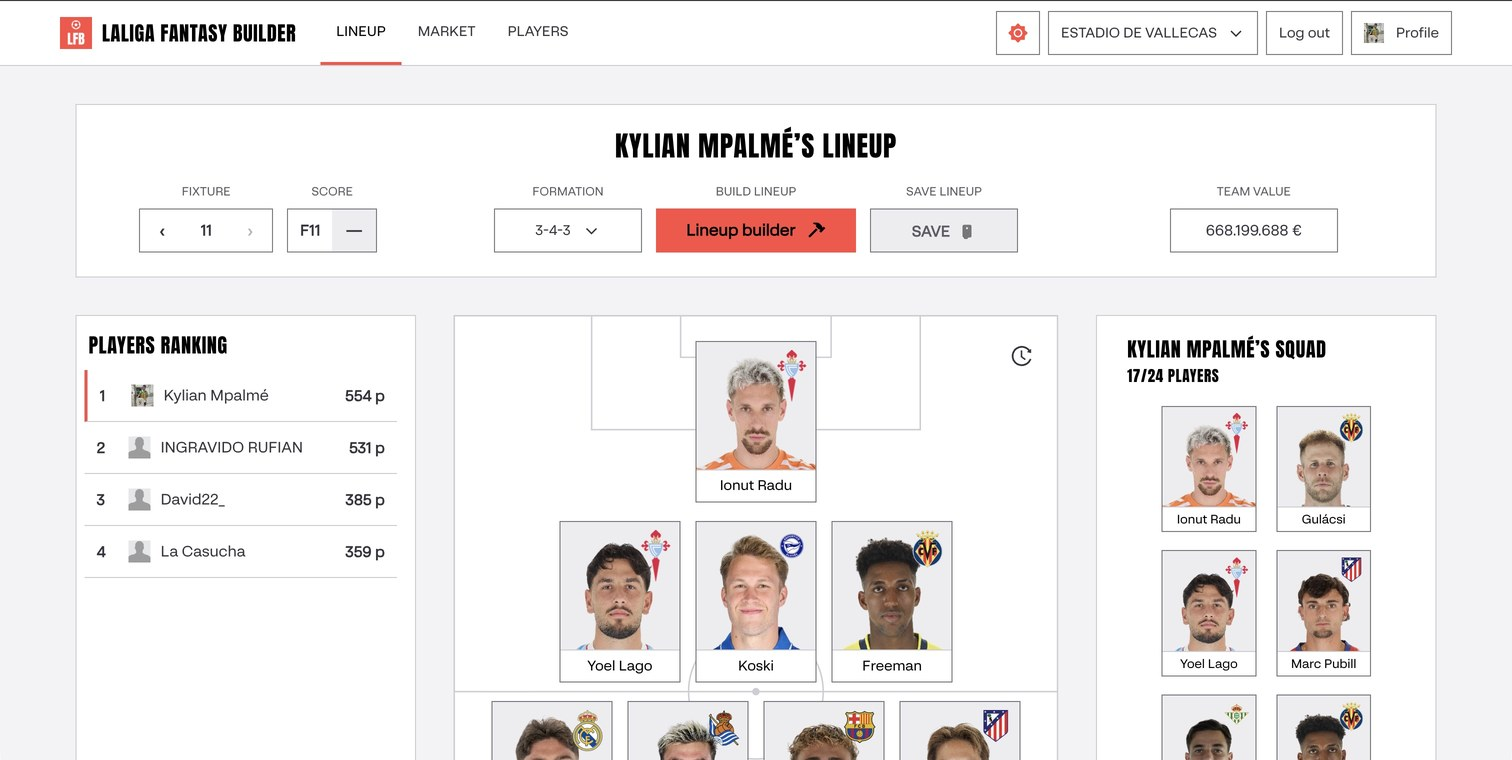
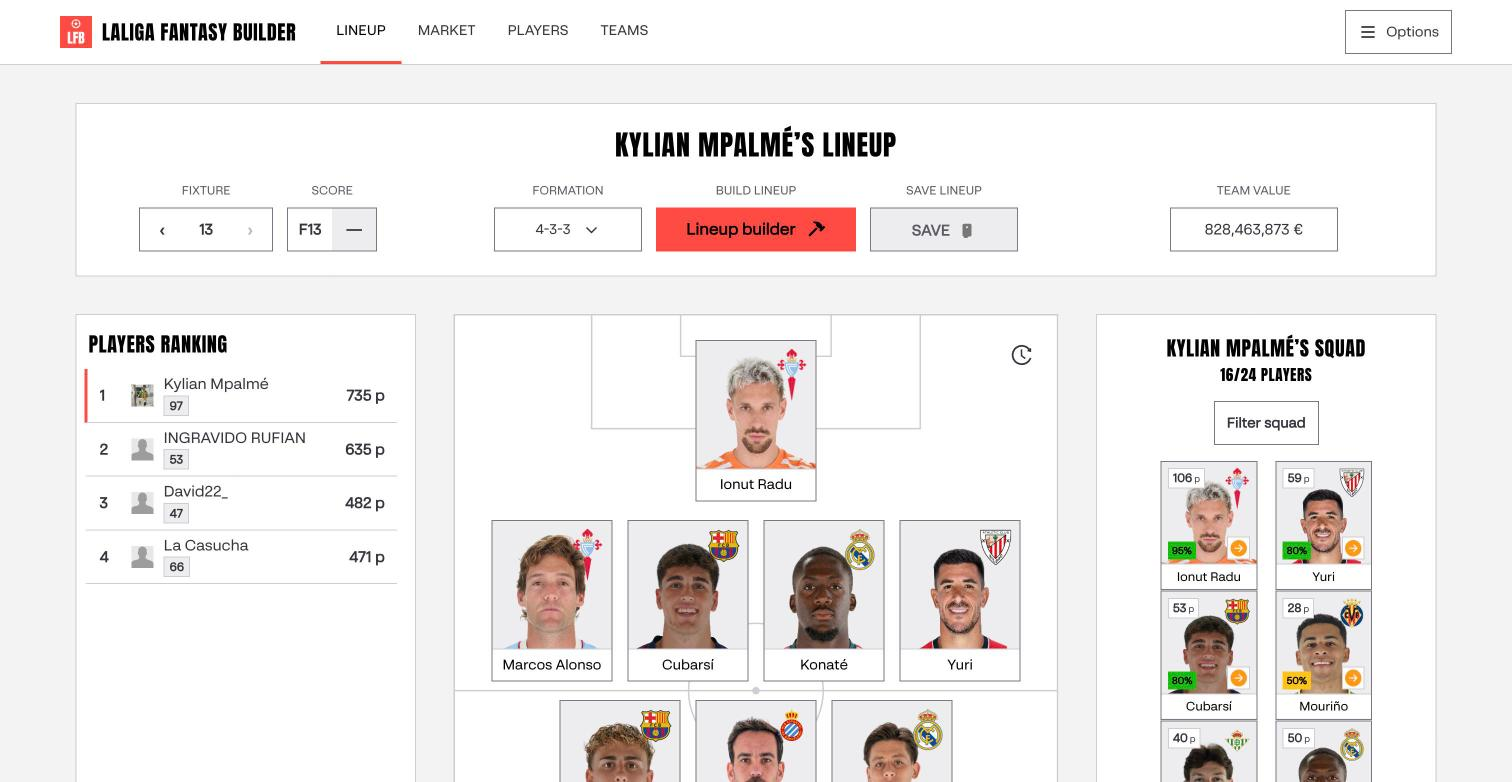
docs: describe the Teams tab and refresh the screenshot gallery
Add the Teams dossier to the README, CHANGELOG, architecture and docs index,
drop a duplicated loading paragraph from the frontend guide, and replace the
ten product captures with sixteen covering Lineup, Market, Players, Teams,
player details and the lineup builder in both themes.

diff --git a/docs/frontend.md b/docs/frontend.md
@@ -2,7 +2,8 @@
 
 React app in `frontend/` (Vite, Bun). It is the browser entry point for
 LaLiga Fantasy Builder: sign-in, league selection, lineup editing, player
-catalog and profiles, and an interactive market board. It never calls LaLiga
+catalog and profiles, an interactive market board, and a Teams tab with one dossier
+per real LaLiga club. It never calls LaLiga
 directly and keeps the internal JWT in memory only.
 
 - System map: [Architecture](architecture.md)
@@ -145,50 +146,66 @@ or close-button dismissal until a result is available. Closing an idle dialog
 restores focus to its originating control. Date-range editing still uses an
 explicit Apply/Cancel workflow.
 
-Automated browser checks use fictional, deterministic account data. The ten
+Automated browser checks use fictional, deterministic account data. The sixteen
 product captures below come from a signed-in browser session with real league and
 player data. Screenshot assets live under [`docs/images/screenshots/`](images/screenshots/).
 Keep captions and screenshots in the same change.
 
 ### Product captures
 
-Captured on 27 October 2026 (Europe/Madrid) from the running local React app.
+Captured on 9 November 2026 (Europe/Madrid) from the running local React app.
 Each image shows the actual browser-rendered interface and live API data at capture
-time, including the account's league, lineup, market, and player profiles. Values,
-standings, availability, and market listings may change. The browser chrome was
-cropped away and the application viewport was reduced to 1512 × 760 pixels for
-documentation. The [project README](../README.md#screenshots) contains the same gallery.
+time, including the account's league, lineup, market, player profiles and the
+Athletic Club dossier on Teams. Values, standings, availability, market listings and
+published radar or profile data may change. The browser chrome was cropped away and
+the application viewport was set to 1512 × 782 pixels for documentation. The
+[project README](../README.md#screenshots) contains the same gallery.
 
 #### Light theme
 
-![Live lineup and squad in light theme](images/screenshots/lineup-live-light.jpg)
+![Live lineup in light theme](images/screenshots/lineup-live-light.jpg)
 
-![Live market listings in light theme](images/screenshots/market-live-light.jpg)
+![Live market in light theme](images/screenshots/market-live-light.jpg)
 
-![Live player catalog in light theme](images/screenshots/players-live-light.jpg)
+![Live players catalog in light theme](images/screenshots/players-live-light.jpg)
 
-![Ionut Radu profile in light theme](images/screenshots/details-ionut-radu-live-light.jpg)
+![Teams club dossier, Performance in light theme](images/screenshots/teams-live-light.jpg)
 
-![Lineup builder with the live squad in light theme](images/screenshots/lineup-builder-live-light.jpg)
+![Teams club dossier, Players in light theme](images/screenshots/teams-players-live-light.jpg)
+
+![Teams club dossier, predicted lineup in light theme](images/screenshots/teams-lineup-live-light.jpg)
+
+![Ionut Radu player details in light theme](images/screenshots/details-ionut-radu-live-light.jpg)
+
+![Live lineup builder in light theme](images/screenshots/lineup-builder-live-light.jpg)
 
 #### Dark theme
 
-![Live lineup and squad in dark theme](images/screenshots/lineup-live-dark.jpg)
+![Live lineup in dark theme](images/screenshots/lineup-live-dark.jpg)
 
-![Live market listings in dark theme](images/screenshots/market-live-dark.jpg)
+![Live market in dark theme](images/screenshots/market-live-dark.jpg)
 
-![Live player catalog in dark theme](images/screenshots/players-live-dark.jpg)
+![Live players catalog in dark theme](images/screenshots/players-live-dark.jpg)
 
-![Lamine Yamal profile in dark theme](images/screenshots/details-lamine-yamal-live-dark.jpg)
+![Teams club dossier, Performance in dark theme](images/screenshots/teams-live-dark.jpg)
 
-![Lineup builder with the live squad in dark theme](images/screenshots/lineup-builder-live-dark.jpg)
+![Teams club dossier, Players in dark theme](images/screenshots/teams-players-live-dark.jpg)
+
+![Teams club dossier, predicted lineup in dark theme](images/screenshots/teams-lineup-live-dark.jpg)
+
+![Lamine Yamal player details in dark theme](images/screenshots/details-lamine-yamal-live-dark.jpg)
+
+![Live lineup builder in dark theme](images/screenshots/lineup-builder-live-dark.jpg)
 
 #### Refreshing screenshots
 
 Open a signed-in local application session, select the intended league, and visit
-`/`, `/market`, `/players`, and each player's profile. Capture both themes and the
-builder setup dialog directly from the browser. Check that images and data have
-loaded, and review the ten resulting images together before updating captions.
+`/`, `/market`, `/players`, one player's profile, and a club on Teams (`/teams/{clubId}`
+for the Performance view, then `?section=players` and `?section=lineup`). Capture both
+themes (switch with the theme control in Options) and the builder setup dialog directly
+from the browser. The first read of a club scrapes every profile and can take about half
+a minute, so wait until the season statistics, MVP form and radar have loaded before
+capturing. Review the sixteen resulting images together before updating captions.
 The builder setup view is read-only; no build, bid, trade, or lineup save is needed.
 
 ## Running locally
@@ -226,11 +243,6 @@ tinted and outlined, and the strip scrolls it into view on narrow screens.
 The query keeps `section`, `competition`, and `window` when they differ from
 Performance, LaLiga, and five matches. Refresh restores that URL. A signed-out
 visit uses the same sign-in gate as Market and Players.
-While the club directory or the dossier loads, a `PulseRing` announces "Loading the club
-dossier." and each section that has not arrived is a `TeamSectionSkeleton`: the real
-heading and id (so deep links and the section bar still land) over skeleton blocks shaped
-like the finished content, marked `aria-busy`. The club strip shows skeleton tiles until the
-directory arrives. A section left empty after the load stays a plain anchor.
 While the club directory or the dossier loads, a `PulseRing` announces "Loading the club
 dossier." and each section that has not arrived is a `TeamSectionSkeleton`: the real
 heading and id (so deep links and the section bar still land) over skeleton blocks shaped

diff --git a/README.md b/README.md
@@ -1,7 +1,7 @@
 # LaLiga Fantasy Builder
 
 Companion for a LaLiga Fantasy league: edit your lineup, browse player profiles,
-and manage market bids from the browser, backed by an API that proxies Fantasy
+study real LaLiga clubs, and manage market bids from the browser, backed by an API that proxies Fantasy
 data and user-confirmed writes with your linked account.
 
 | Topic | Doc |
@@ -11,7 +11,7 @@ data and user-confirmed writes with your linked account.
 | Backend, frontend, and cloud architecture | [ARCHITECTURE.md](ARCHITECTURE.md) |
 | Detailed service trust boundaries | [docs/architecture.md](docs/architecture.md) |
 | Google Cloud Terraform deployment | [infra/gcp/README.md](infra/gcp/README.md) |
-| UI behaviour (lineup, market, players) | [docs/frontend.md](docs/frontend.md) |
+| UI behaviour (lineup, market, players, teams) | [docs/frontend.md](docs/frontend.md) |
 | API routes and CLIs | [docs/api/README.md](docs/api/README.md) |
 | Agent / contributor rules | [AGENTS.md](AGENTS.md) |
 
@@ -77,6 +77,27 @@ requires reviewed inputs and deployment configuration. See
 [coverage](docs/scraping/radar-laliga-2026-27.md) and the
 [operations runbook](docs/scraping/radar-operations.md).
 
+### Teams (`/teams`)
+
+- Pick any of the 20 current LaLiga clubs from a crest strip; the page heading shows
+  the club's league position and points. The club, section, competition and match
+  window live in the URL, so refresh, Back and shared links keep the same view.
+- **Performance:** wins, draws and losses, W/D/L form chips and home/away split for a
+  competition (National league, European, Domestic cup, Other) and a 5, 10, 20 or
+  whole-season window, beside previous and upcoming matches with the next match
+  highlighted and each club linked.
+- **Players:** the club's three MVPs by FSYP with photo, age, form, last five LaLiga
+  scores, starter likelihood and radar, plus a sortable squad table of LaLiga season
+  totals and a Hierarchy levels dialog. Players without minutes fold away.
+- **Lineup:** the predicted XI on the Lineup pitch with starter chances, a coach
+  report, and alternatives per position with form, role and points. A player dialog
+  adds a radar, the last five matches and market actions.
+- **News & Injuries:** one merged feed of club news and injured players, with Spanish
+  wording translated locally and other text translated on demand.
+- Every widget opens with a short About line; sections show skeletons while the
+  dossier loads. The first read of a club can take about half a minute. See the
+  [Teams UI](docs/frontend.md#teams-screen) and [Clubs API](docs/api/clubs/README.md).
+
 ### Favorites and scouting
 
 - Save players with the bookmark before their name in Market or Players, or from
@@ -96,7 +117,7 @@ requires reviewed inputs and deployment configuration. See
 
 - **Identity** (`backend/identity`): Better Auth login, recovery, sessions and JWTs.
 - **LaLiga auth** (`backend/auth`): pairing, encrypted vault and refresh.
-- **API** (`backend/api`): leagues, teams, players, calendar, market,
+- **API** (`backend/api`): leagues, teams, clubs, players, calendar, market,
   buyout — OpenAPI at http://localhost:8001/docs when running locally. Player
   detail stats aggregate catalog, calendar, and private scraping data.
 - **Read-only CLIs** for market and buyout analysis; no automated bidding or
@@ -104,9 +125,11 @@ requires reviewed inputs and deployment configuration. See
 
 ## Screenshots
 
-These ten captures were taken from the signed-in application in a browser on
-27 October 2026 (Europe/Madrid), with real league and player data. Values and
-availability can change. See the [capture notes](docs/frontend.md#product-captures).
+These sixteen captures were taken from the signed-in application in a browser on
+9 November 2026 (Europe/Madrid), with real league and player data, and cover the
+Lineup, Market, Players and Teams tabs plus player details and the lineup builder.
+Values and availability can change. See the
+[capture notes](docs/frontend.md#product-captures).
 
 ### Light theme
 
@@ -115,6 +138,12 @@ availability can change. See the [capture notes](docs/frontend.md#product-captur
 ![Live market in light theme](docs/images/screenshots/market-live-light.jpg)
 
 ![Live players catalog in light theme](docs/images/screenshots/players-live-light.jpg)
+
+![Teams club dossier, Performance in light theme](docs/images/screenshots/teams-live-light.jpg)
+
+![Teams club dossier, Players in light theme](docs/images/screenshots/teams-players-live-light.jpg)
+
+![Teams club dossier, predicted lineup in light theme](docs/images/screenshots/teams-lineup-live-light.jpg)
 
 ![Ionut Radu player details in light theme](docs/images/screenshots/details-ionut-radu-live-light.jpg)
 
@@ -127,6 +156,12 @@ availability can change. See the [capture notes](docs/frontend.md#product-captur
 ![Live market in dark theme](docs/images/screenshots/market-live-dark.jpg)
 
 ![Live players catalog in dark theme](docs/images/screenshots/players-live-dark.jpg)
+
+![Teams club dossier, Performance in dark theme](docs/images/screenshots/teams-live-dark.jpg)
+
+![Teams club dossier, Players in dark theme](docs/images/screenshots/teams-players-live-dark.jpg)
+
+![Teams club dossier, predicted lineup in dark theme](docs/images/screenshots/teams-lineup-live-dark.jpg)
 
 ![Lamine Yamal player details in dark theme](docs/images/screenshots/details-lamine-yamal-live-dark.jpg)
 

diff --git a/ARCHITECTURE.md b/ARCHITECTURE.md
@@ -13,7 +13,7 @@ template; it has not been provisioned or load-tested in the user's project.
 | --- | --- | --- | --- |
 | Identity | TypeScript, Node 24, Express 5, Better Auth; Bun for dependency/build tooling | 8003 | Credentials, optional social providers, email verification/recovery, sessions, signing keys, application JWTs. |
 | Auth | Python 3.14, FastAPI | 8000 | LaLiga pairing, encrypted token vault, refresh, connection ownership, private bearer exchange. |
-| API | Python 3.14, FastAPI | 8001 | Leagues, teams, players, calendar, standings, market, buyout, read-only lineup recommendations, favorites and scouting alerts. |
+| API | Python 3.14, FastAPI | 8001 | Leagues, teams, clubs, players, calendar, standings, market, buyout, read-only lineup recommendations, favorites and scouting alerts. |
 | Scraping | Python 3.14, FastAPI, downloader/parser | 8002 | Private FutbolFantasy data and official standings extraction; no LaLiga credentials. |
 
 ### Boundaries and request flow
@@ -101,14 +101,14 @@ shared API layer, and reusable UI components sit alongside them.
 | Application composition and routing | `frontend/src/app`; providers, route boundaries, lazy player-detail loading. |
 | Identity and LaLiga connection state | `frontend/src/auth`; Better Auth client, in-memory JWT, account and linking flows. |
 | Data contracts and clients | `frontend/src/api`; paths, schemas, mappers, queries, and streaming builder calls. |
-| Product features | `frontend/src/features`; lineup, market, players, and shared shell. |
+| Product features | `frontend/src/features`; lineup, market, players, teams, scouting, and shared shell. |
 | Shared interaction primitives | `frontend/src/components`; accessible controls, feedback, dialogs, and visual components. |
 
 The browser uses one origin, `https://fantasybuilder.es` in the cloud template:
 
 | Path | Destination |
 | --- | --- |
-| `/`, `/market`, `/players`, `/account`, and other UI routes | Static frontend; Nginx falls back to `index.html` for client-side routes. |
+| `/`, `/market`, `/players`, `/teams`, `/account`, and other UI routes | Static frontend; Nginx falls back to `index.html` for client-side routes. |
 | `/auth/*` | Identity; HTTPS Caddy routes directly and replaces the client-IP header. |
 | `/laliga/*` | Nginx → auth, retaining the prefix. |
 | `/api/*` | Nginx → API, removing `/api` before forwarding. |

diff --git a/CHANGELOG.md b/CHANGELOG.md
@@ -6,6 +6,35 @@ entry, not a claim that every optional provider or deployment gate is complete.
 
 ## [Unreleased]
 
+### Teams
+
+- Add a **Teams** tab (`/teams`, `/teams/{clubId}`) with one dossier per current LaLiga
+  club: a crest strip to switch clubs, league position and points, and sticky
+  Performance, Players, Lineup and News & Injuries sections. The club and the
+  `section`, `competition` and `window` filters live in the URL.
+- Performance shows wins, draws, losses, W/D/L form chips, the home/away split and goals
+  for a competition (National league, European, Domestic cup, Other) over the last 5, 10,
+  20 or whole-season matches, beside previous and upcoming matches with competition
+  logos, linked clubs and a highlighted next match.
+- Players shows the top three MVPs by FSYP with photo, age, form, last five LaLiga points,
+  starter likelihood and radar, a sortable squad table of LaLiga season totals that folds
+  players without minutes, and a Hierarchy levels dialog.
+- Lineup shows the predicted XI on the Lineup pitch with form and FSYP on each token, a
+  coach report, collapsible alternatives with hierarchy, and a starter dialog with a radar,
+  the last five matches and market buttons.
+- News & Injuries merges the club news feed and injured players. Known Spanish wording is
+  translated from local maps; other text uses on-demand translation.
+- Describe each widget with an About line, show a pulse ring and per-section skeletons
+  while a dossier loads, and announce a failed club index or dossier instead of drawing
+  an empty page. Phones get equal-width section tabs and icon-only competition filters.
+- Add the read-only clubs API (`GET /clubs`, `/clubs/{club_id}` and
+  `/clubs/{club_id}/roster-stats`) and private scraping routes for the club page and the
+  full capped news changelog. Cup and European matches take their venue from the club's
+  own printed name, and unrecognised competitions stay in the Other group.
+  See the [Clubs API](docs/api/clubs/README.md).
+- Refresh the README and frontend gallery with sixteen captures of Lineup, Market,
+  Players, Teams, player details and the lineup builder in both themes.
+
 ### Favorites and scouting
 
 - Confirm favorite saves and removals with localized success toasts after persistence;

diff --git a/docs/README.md b/docs/README.md
@@ -30,7 +30,7 @@ logical database and new runtime values; follow the
 | [System architecture](../ARCHITECTURE.md) | Backend, frontend, and Google Cloud topology |
 | [Terraform deployment](../infra/gcp/README.md) | Provision the GCP VM, network, private backups, registry, secrets, and runtime |
 | [Google Cloud deployment assessment](deployment/google-cloud-cost-architecture.md) | Cost comparison and architecture for four concurrent users; trial, sizing, and production preparation |
-| [Frontend](frontend.md) | Lineup, market, and players UI, data loading, actions, details, and product screenshot gallery |
+| [Frontend](frontend.md) | Lineup, market, players, and Teams UI, data loading, actions, details, and product screenshot gallery |
 | [Spanish and English localization](frontend-localization-plan.md) | Deterministic UI/data translations, selective GTranslate for scraped injury/news prose, and Options language control |
 | [Favorites and scouting](api/scouting/README.md) | Global bookmarks, per-league alerts, worker delegation, storage and recovery |
 | [Lineup builder](api/lineup-builder.md) | Read-only recommendations, scoring, and source contracts |
@@ -65,7 +65,7 @@ logical database and new runtime values; follow the
 ### Domains
 
 [Leagues](api/leagues/README.md) · [Teams](api/teams/README.md) ·
-[Players](api/players/README.md) · [Calendar](api/calendar/README.md) ·
+[Clubs](api/clubs/README.md) · [Players](api/players/README.md) · [Calendar](api/calendar/README.md) ·
 [Market](api/market/README.md) · [Buyout](api/buyout/README.md)
 
 [Real LALIGA club standings](api/standings/README.md) uses a separate provider API;
